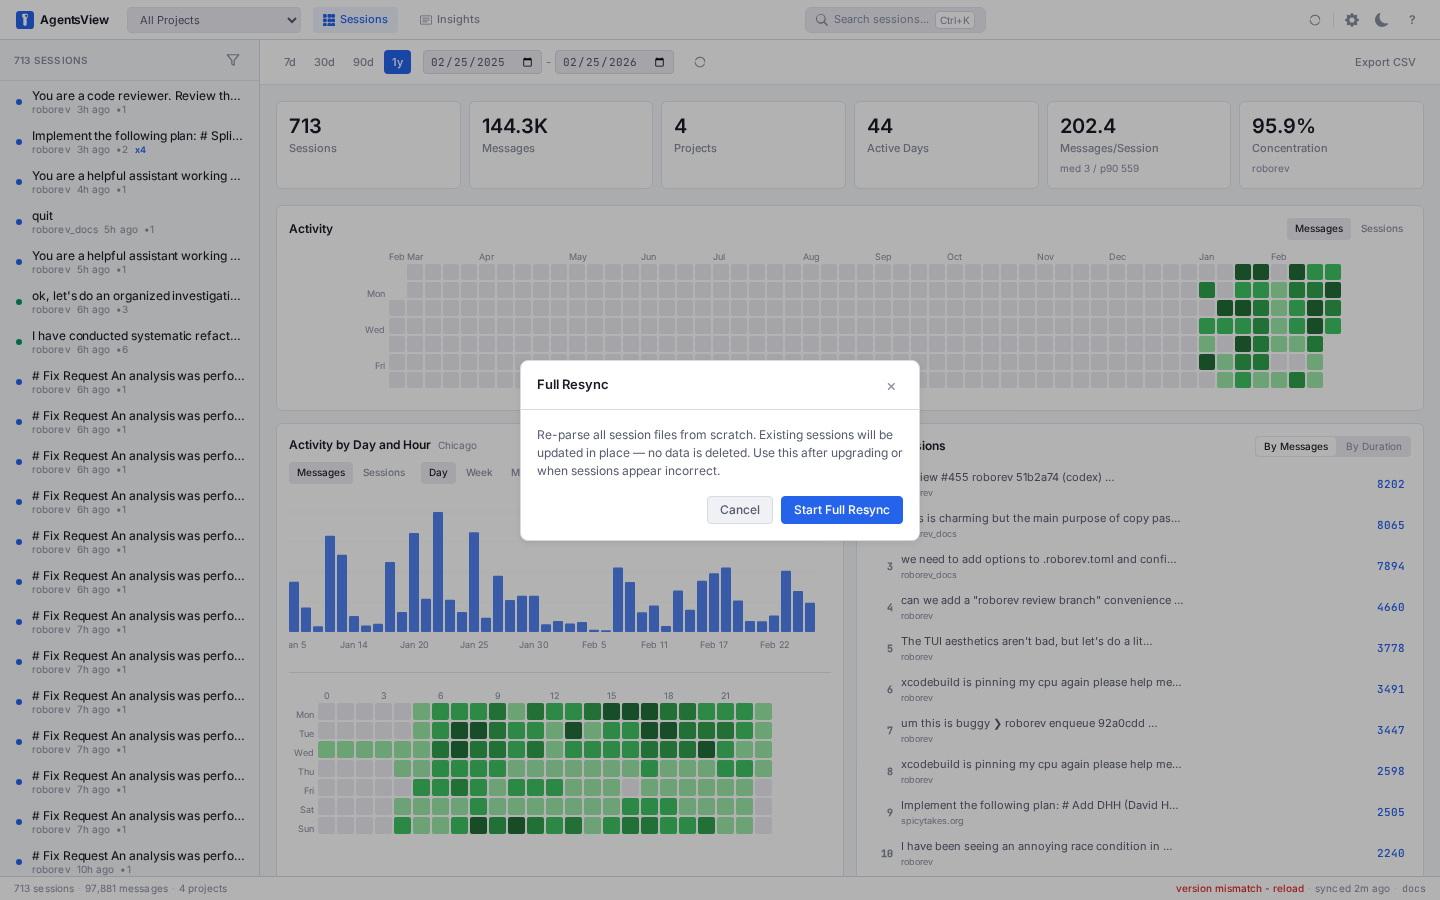
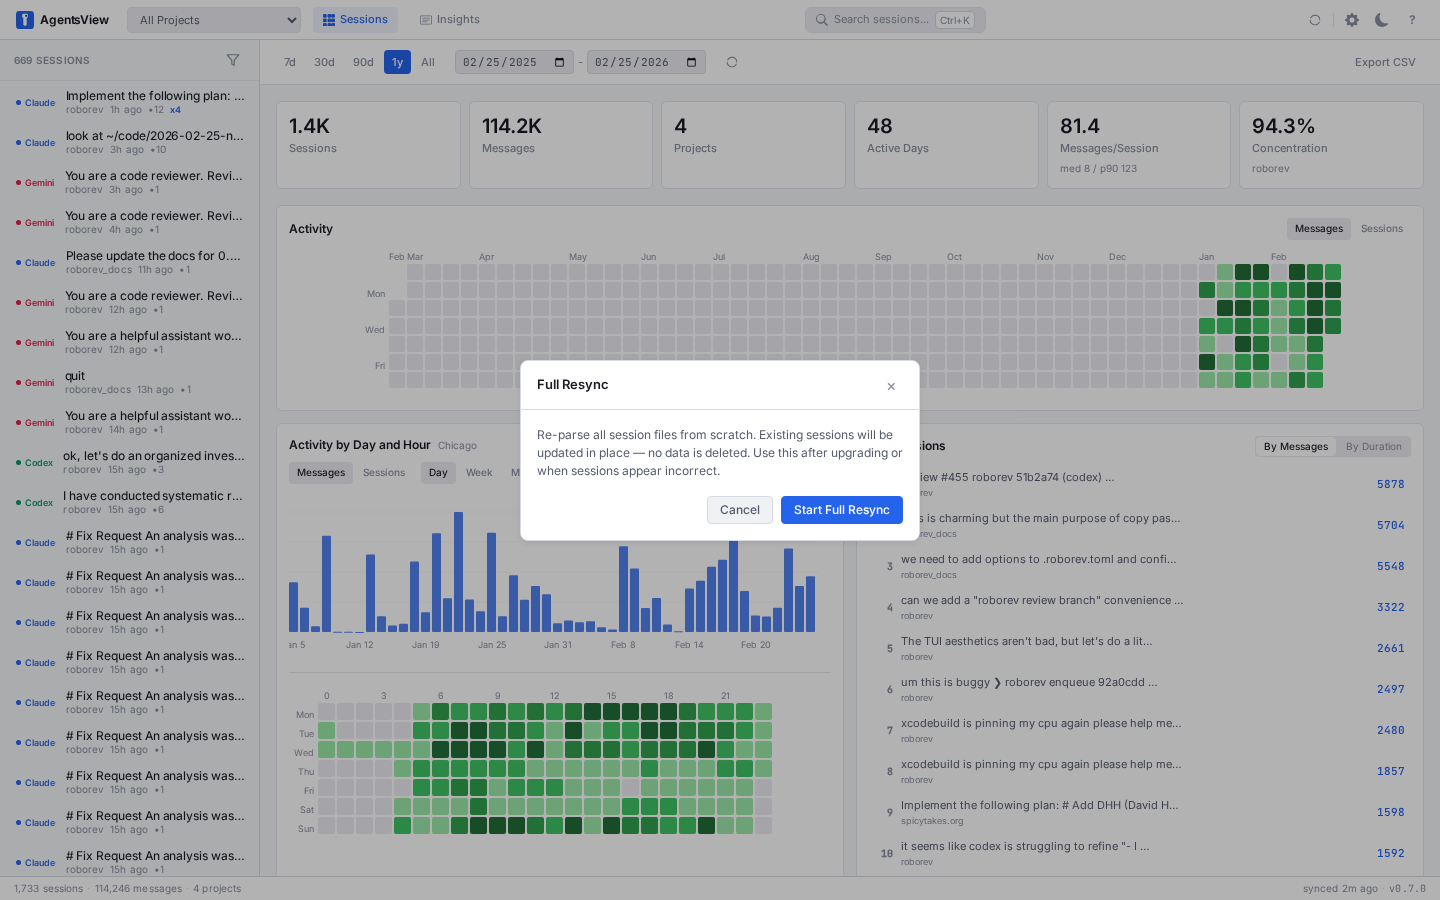
Document 0.7.0: DAG view, subagent linking, filters (#7)
## Summary
- Add 0.7.0 changelog entry
- Document session DAG fork detection and how forks/subagents appear in
the session list
- Document inline subagent linking in tool blocks
- Add "Hide unknown" to session filter documentation
- Add `exclude_project` URL filter param
- Update date range picker to include the "All" preset
- Update architecture page with fork detection algorithm and subagent
linking design
- Update agent indicator docs to reflect new agent name labels

## Test plan
- [ ] Verify the site builds cleanly
- [ ] Review Session Browser section for fork/subagent accuracy
- [ ] Review Subagent Linking section against the actual UI
- [ ] Review Architecture fork detection and subagent linking sections
- [ ] Regenerate screenshots after merge

🤖 Generated with [Claude Code](https://claude.com/claude-code)

---------

diff --git a/screenshots/tests/screenshots.spec.ts b/screenshots/tests/screenshots.spec.ts
@@ -302,7 +302,9 @@ test.describe('Session browser', () => {
       await page.waitForTimeout(300);
 
       // Enable the "Recently Active" toggle
-      const toggle = page.locator('button.filter-toggle');
+      const toggle = page.getByRole('button', {
+        name: 'Recently Active',
+      });
       if (await toggle.count() > 0) {
         await toggle.click();
         await page.waitForTimeout(300);
